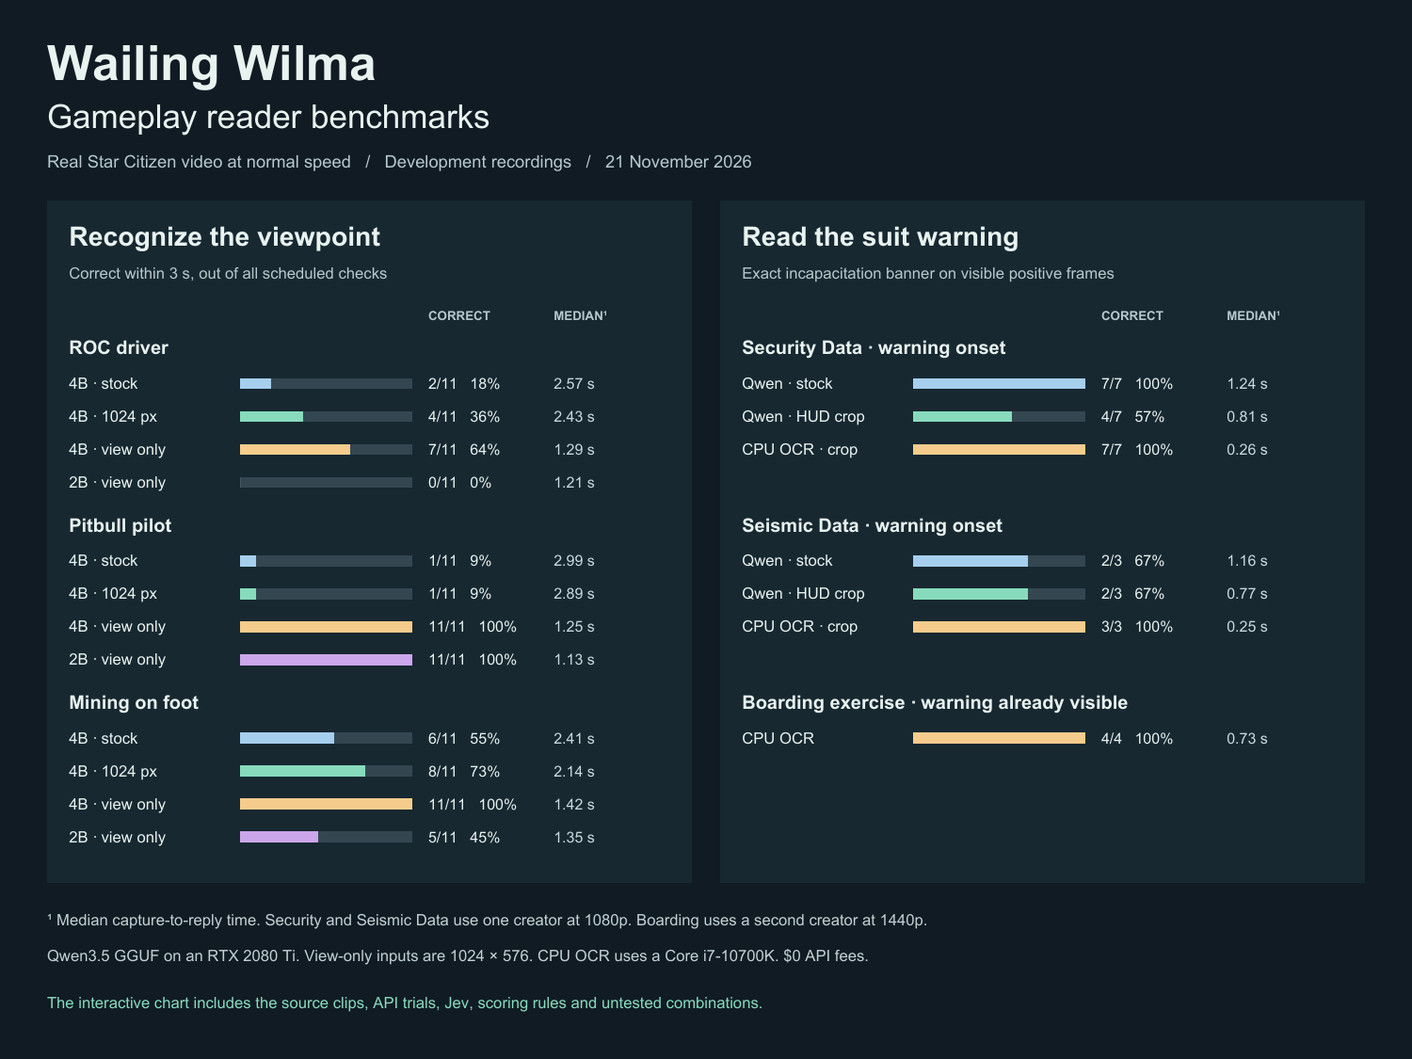
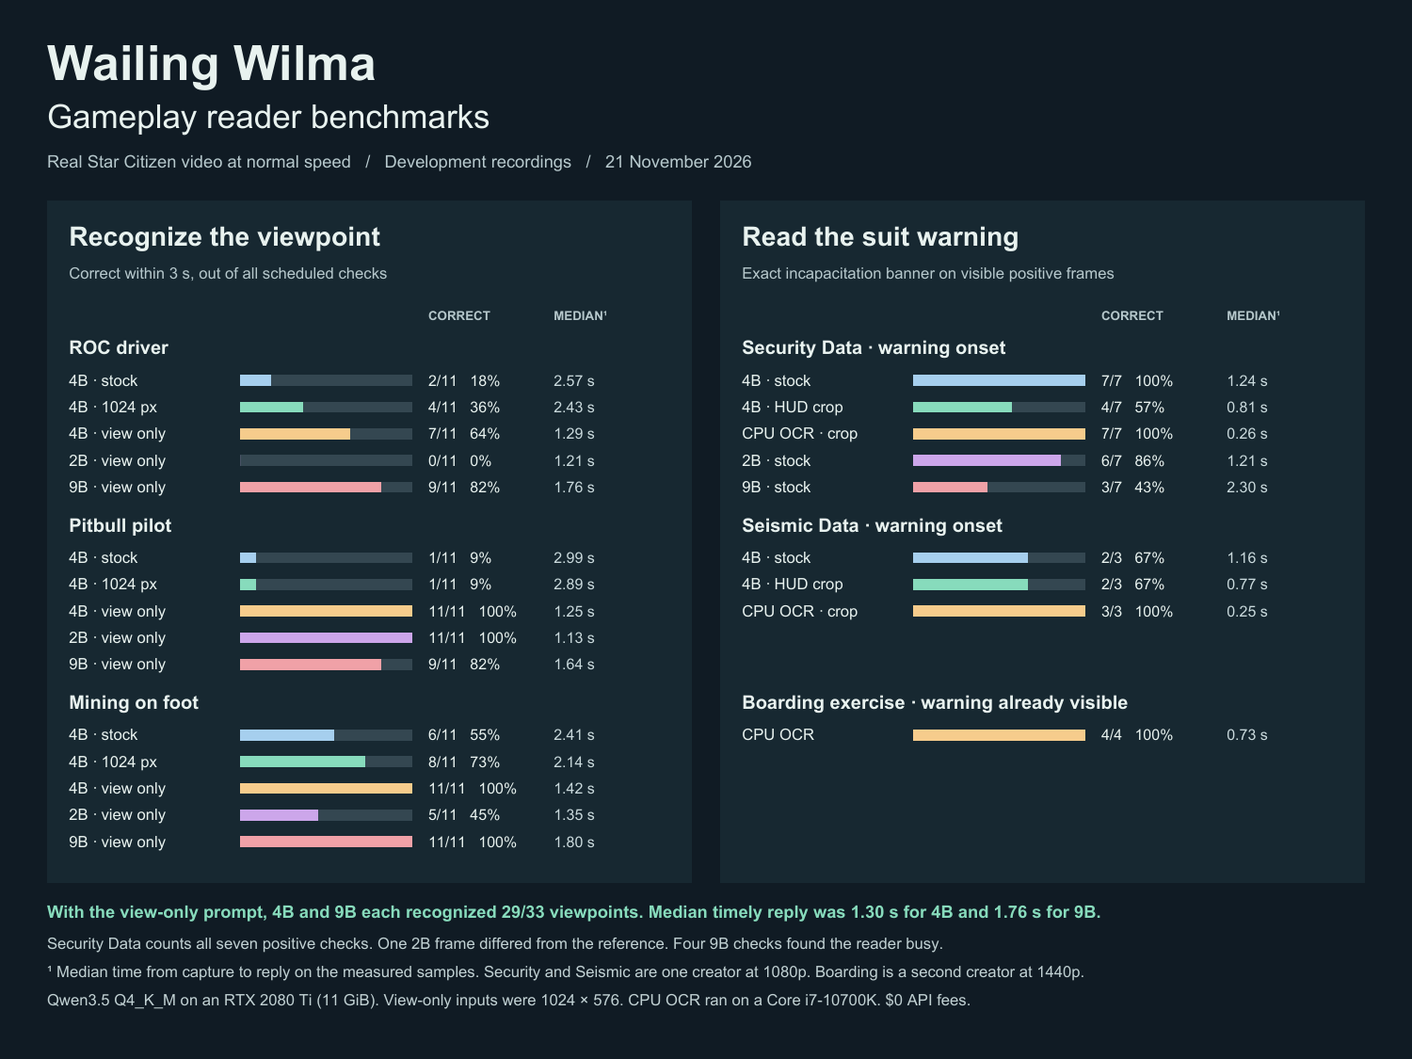
Compare hosted vision readers on moving gameplay and local Qwen sizes

diff --git a/tools/reader_chart.html b/tools/reader_chart.html
@@ -6,7 +6,7 @@
 </style></head>
 <body><main><header><h1>Wailing Wilma gameplay benchmarks</h1><p>Star Citizen video replay · Reader accuracy, response time and API cost</p></header>
 <section aria-labelledby="comparison"><h2 id="comparison">Matched comparisons</h2>
-<div class="options"><button id="viewpoint" aria-pressed="true">Recognize the viewpoint</button><button id="banner" aria-pressed="false">Read a suit warning</button><button id="cooler" aria-pressed="false">Read a cooler failure</button></div>
+<div class="options"><button id="hosted" aria-pressed="true">Compare hosted readers</button><button id="viewpoint" aria-pressed="false">Recognize the viewpoint</button><button id="banner" aria-pressed="false">Read a suit warning</button><button id="cooler" aria-pressed="false">Read a cooler failure</button><button id="local" aria-pressed="false">Compare local model sizes</button></div>
 <div class="chart"><p id="definition"></p><div class="barrow legend-head"><span>Reader</span><span></span><span>Correct</span><span class="time">Median¹</span></div><div id="bars"></div>
 <p id="caption" class="caption"></p></div></section>
 <section aria-labelledby="all"><h2 id="all">All trials and coverage</h2><p class="hint">Open a result for its scoring rule, hardware, costs and evidence.</p>
@@ -26,6 +26,20 @@ function node(tag, text, cls) {
   return el;
 }
 const panels = {
+  hosted: {
+    text:"How often did a hosted reader name the visible component failure within three seconds?",
+    names:["Haiku default","Gemma 4 26B","Haiku focused","Haiku literal text"],
+    groups:[["Hull B · cooler","nov21-fast-hull-screen-haiku-direct-default-512","nov21-fast-hull-screen-google-gemma-4-26b-a4b-it","nov21-fast-hull-literal-haiku-focused-json-stock-jpeg","nov21-fast-hull-literal-haiku-literal-text-stock-jpeg"],["Hermes · power plant","nov21-fast-hermes-transfer-haiku-direct-default-512","nov21-fast-hermes-transfer-google-gemma-4-26b-a4b-it","nov21-fast-hermes-literal-haiku-focused-json-stock-jpeg","nov21-fast-hermes-literal-haiku-literal-text-stock-jpeg"]],
+    den:"scored_count",
+    caption:"¹ Median time to a correct reading among hits within five seconds. A dash means there were no such hits. The two clips contain one fault each. On the Hermes, literal-text Haiku took 4.835–5.086 s from visible onset to an eligible warning. Playback latency was unmeasured. Search below for all models, prompt variations and API costs."
+  },
+  local: {
+    text:"How many scheduled checks did each unchanged Qwen3.5 model get right within three seconds?",
+    names:["2B","4B","9B"],
+    groups:[["ROC driver","nov21-qwen2b-viewonly-roc","nov21-viewonly-roc","nov21-qwen9b-viewonly-roc"],["Pitbull pilot","nov21-qwen2b-viewonly-ship","nov21-viewonly-ship","nov21-qwen9b-viewonly-ship"],["Mining on foot","nov21-qwen2b-viewonly-fps","nov21-viewonly-fps","nov21-qwen9b-viewonly-fps"],["Security Data · visible suit warning","nov21-qwen2b-onyx-stock","nov21-pair-onyx-stock","nov21-qwen9b-onyx-stock"]],
+    den:"scored_count", scheduled:{"Security Data · visible suit warning":7},
+    caption:"¹ Median time to a timely reply (see individual rows for timing scope). The 4B and 9B models each recognized 29/33 viewpoints on the same 1024 × 576 inputs. The 2B model recognized 16/33. The separate full-frame suit test counts all seven scheduled positives. One 2B frame differed from the reference. All seven 9B frames matched, but four checks found the reader busy. RTX 2080 Ti, 11 GiB. $0 API fees. Speech was unmeasured."
+  },
   viewpoint: {
     text:"How often did the local models identify the player’s viewpoint within three seconds?",
     names:["4B general, stock","4B general, 1024 px","4B view only","2B view only"],
@@ -58,9 +72,9 @@ function draw(key) {
     ids.forEach((key,i)=>{
       const item=byId.get(key); if(!item) return;
       const box=node("div",undefined,"barrow"), track=node("div",undefined,"bar");
-      const n=Number(item.correct_count), d=Number(item[p.den]), pc=Math.round(n/d*100);
+      const n=Number(item.correct_count), d=Number(p.scheduled?.[title] ?? item[p.den]), pc=Math.round(n/d*100);
       const fill=node("div",undefined,"fill"); fill.style.width=pc+"%"; fill.style.background=colors[i]; track.append(fill);
-      box.append(node("span",p.names[i]), track,node("span",n+"/"+d+" · "+pc+"%","value"), node("span",(Number(item.latency_ms)/1000).toFixed(2)+" s","time"));
+      box.append(node("span",p.names[i]), track,node("span",n+"/"+d+" · "+pc+"%","value"), node("span",item.latency_ms ? (Number(item.latency_ms)/1000).toFixed(2)+" s" : "—","time"));
       group.append(box);
     });
     groups.push(group);
@@ -68,7 +82,7 @@ function draw(key) {
   id("bars").replaceChildren(...groups);
 }
 const types={experiment:"Experiment",paced_replay:"Paced replay",candidate:"Model candidate",coverage_arm:"Planned comparison",screen_family:"Display coverage"};
-const fields=[["provider","Provider or hardware"],["arm","Configuration"],["status","Status"],["input_id","Input"],["screen_family","Display"],["accuracy_percent","Accuracy (%)"],["correct_count","Correct"],["scored_count","Scored"],["accuracy_metric","Scoring rule"],["accuracy_status","Accuracy evidence"],["latency_ms","Latency (ms)"],["latency_scope","Latency definition"],["cost_usd","Reported cost ($)"],["cost_basis","Cost basis"],["estimated_hourly_usd","Est. cost per hour ($)"],["requests_per_hour","Requests per hour"],["n","Sample count"],["offered_frames","Scheduled frames"],["timely_frames","Timely frames"],["vision_requests","Vision requests"],["declared_source_groups","Source groups"],["independent_groups","Independent groups"],["findings","Findings"],["reference_quality","Ground truth"],["permutation","Combination"],["pilot_status","Pilot"],["pilot_experiment_ids","Related trials"],["holdout_status","Held-out test"],["coverage_status","Coverage"],["required","Required"],["coverage_summary","Coverage detail"],["benchmark_evidence","Evidence"],["source_url","Source"],["id","Record ID"]];
+const fields=[["provider","Provider or hardware"],["arm","Configuration"],["status","Status"],["input_id","Input"],["screen_family","Display"],["accuracy_percent","Accuracy (%)"],["correct_count","Correct"],["scored_count","Scored"],["accuracy_metric","Scoring rule"],["accuracy_status","Accuracy evidence"],["latency_ms","Latency (ms)"],["latency_scope","Latency definition"],["cost_usd","API cost ($; see basis)"],["cost_basis","Cost basis"],["estimated_hourly_usd","Est. cost per hour ($)"],["requests_per_hour","Requests per hour"],["n","Sample count"],["offered_frames","Scheduled frames"],["timely_frames","Timely frames"],["vision_requests","Vision requests"],["declared_source_groups","Source groups"],["independent_groups","Independent groups"],["findings","Findings"],["reference_quality","Ground truth"],["permutation","Combination"],["pilot_status","Pilot"],["pilot_experiment_ids","Related trials"],["holdout_status","Held-out test"],["coverage_status","Coverage"],["required","Required"],["coverage_summary","Coverage detail"],["benchmark_evidence","Evidence"],["source_url","Source"],["id","Record ID"]];
 const searchable=rows.map(r=>Object.values(r).join(" ").toLowerCase());
 function result(row) {
   const item=node("details",undefined,"item"), summary=node("summary");
@@ -99,5 +113,5 @@ function filter(){
 }
 for(const key of Object.keys(panels)) id(key).addEventListener("click",()=>draw(key));
 id("search").addEventListener("input",filter); id("type").addEventListener("change",filter); id("more").addEventListener("click",add);
-draw("viewpoint"); filter();
+draw("hosted"); filter();
 </script></body></html>

diff --git a/docs/hosted-readers.md b/docs/hosted-readers.md
@@ -1,0 +1,102 @@
+# Hosted readers on two ship failures
+
+Gemma 4 26B A4B IT led the 42-model catalog test on the Hull B. It identified the cooler failure within three seconds on **18/38** positive frames. A direct Claude Haiku 5.5 configuration also scored 18/38. A repeat of that configuration scored **19/38**. The earliest eligible warning came 3.350 s after the first reviewed frame, when the cooler fault was already visible. [Hull B recording at 1:50](https://www.youtube.com/watch?v=pOfxidINFvk&t=110s)
+
+On the Hermes, the power plant warning first became legible between 9:25.500 and 9:25.750. Of the six finalists in the first test, only Gemini 3.5 Flash-Lite produced an eligible warning, **11.825–12.076 s** after visible onset. In a follow-up, direct Haiku reading literal terminal text from the stock JPEG improved that to **4.835–5.086 s**. The range crosses five seconds. Both warnings still had the correct visible target when eligible. [Hermes recording at 9:25](https://www.youtube.com/watch?v=6JgvriGCOr4&t=565s)
+
+## Reading the tables
+
+One original 1440p frame was scheduled each second at normal playback speed. **By 3 s** and **By 5 s** count correct named-failure readings against every scheduled positive frame, including busy, expired, missing and unusable checks. **Median hit** is the median capture-to-reply time for correct detections within five seconds. A dash means there was no qualifying result.
+
+**First offer** replays the released Wilma 0.1.80 policy on those recorded replies. It requires two distinct confirming captures, a consistent view and readings less than three seconds old. The figures assume an immediately available speech queue. Actual speech submission and playback were unmeasured. A live three-second request deadline could allow different subsequent captures.
+
+**Quiet replies** counts parseable replies within five seconds on three controls for the Hull B and seven on the Hermes. Four Hermes controls precede the failure and three follow the terminal leaving view. Lack of a reply gives no evidence about false alarms.
+
+**USD** sums provider-reported OpenRouter charges or, for direct Haiku, estimates from returned token usage at the published rates. **Priced / sent** counts calls with cost evidence out of all started calls. When some calls lack prices, their cost is unknown. Zero applies only to the priced calls in that row. [Download the experiment CSV](reader-trials.csv)
+
+## Hermes transfer
+
+All 20 frames matched the reviewed pixels. Thirteen showed the power plant failure. The first six rows repeat the finalists on this ship. The last four vary the Haiku prompt, output schema or JPEG detail after inspection of the first results. No tested configuration offered a wrong or duplicate warning here.
+
+| Model or configuration | By 3 s | By 5 s | Median hit | First offer | USD | Priced / sent | Quiet replies |
+| --- | ---: | ---: | ---: | ---: | ---: | ---: | ---: |
+| Haiku direct: focused, thinking off, 512 | 3/13 (23%) | 3/13 (23%) | 1.637 s | — | $0.00212 | 9/9 | 4/7 |
+| Haiku direct: default, 512 | 0/13 (0%) | 0/13 (0%) | — | — | $0.00394 | 6/6 | 1/7 |
+| google/gemma-4-26b-a4b-it | 0/13 (0%) | 0/13 (0%) | — | — | $0.00097 | 6/7 | 2/7 |
+| google/gemini-2.5-flash-lite | 1/13 (8%) | 1/13 (8%) | 2.248 s | — | $0.00201 | 8/8 | 3/7 |
+| amazon/nova-2-lite-v1 | 0/13 (0%) | 1/13 (8%) | 3.662 s | — | $0.00489 | 6/6 | 2/7 |
+| google/gemini-3.5-flash-lite | 2/13 (15%) | 2/13 (15%) | 2.635 s | 11.825–12.076 s | $0.00693 | 7/7 | 2/7 |
+| Haiku focused JSON, stock JPEG | 3/13 (23%) | 3/13 (23%) | 1.719 s | — | $0.00233 | 9/9 | 3/7 |
+| Haiku literal text, stock JPEG | 5/13 (38%) | 5/13 (38%) | 1.621 s | 4.835–5.086 s | $0.00218 | 10/10 | 4/7 |
+| Haiku schema + literal text, stock JPEG | 2/13 (15%) | 2/13 (15%) | 2.544 s | — | $0.00175 | 7/7 | 3/7 |
+| Haiku schema + literal text, high detail | 5/13 (38%) | 5/13 (38%) | 2.089 s | 7.791–8.042 s | $0.00465 | 8/8 | 3/7 |
+
+The initial focused Haiku read the right target at 9:27, 9:32 and 9:37. Its intervening replies at 9:29 and 9:34 included prose and concluded that the reading was unknown. Each interrupted the two-frame confirmation. The stock-JPEG literal follow-up preserved two consecutive confirmations.
+
+## Hull B catalog models
+
+Each model received the same general prompt, stock JPEG and five-second request deadline. Thirty-eight frames showed the cooler fault and the terminal was out of view on the final three. Of 42 catalog models, seven eventually produced an eligible cooler warning and one, Gemma, did so within five seconds. Only 12 of the 126 scheduled control checks returned a fresh parseable reply within Wilma’s three-second age limit.
+
+| Model or configuration | By 3 s | By 5 s | Median hit | First offer | USD | Priced / sent | Quiet replies |
+| --- | ---: | ---: | ---: | ---: | ---: | ---: | ---: |
+| google/gemma-4-26b-a4b-it | 18/38 (47%) | 18/38 (47%) | 1.760 s | 4.532 s | $0.00315 | 19/19 | 1/3 |
+| google/gemini-2.5-flash-lite | 14/38 (37%) | 14/38 (37%) | 1.774 s | 32.335 s | $0.00382 | 19/19 | 1/3 |
+| amazon/nova-2-lite-v1 | 11/38 (29%) | 11/38 (29%) | 2.318 s | 5.954 s | $0.01062 | 16/16 | 1/3 |
+| google/gemini-3.1-flash-lite | 11/38 (29%) | 11/38 (29%) | 2.365 s | 27.364 s | $0.00967 | 13/15 | 1/3 |
+| google/gemini-3.5-flash-lite | 10/38 (26%) | 11/38 (29%) | 2.268 s | 7.879 s | $0.01617 | 17/17 | 2/3 |
+| openai/gpt-5.4-nano | 10/38 (26%) | 10/38 (26%) | 1.953 s | 6.954 s | $0.01270 | 19/19 | 1/3 |
+| mistralai/mistral-small-2603 | 9/38 (24%) | 10/38 (26%) | 2.598 s | — | $0.00761 | 13/14 | 1/3 |
+| meta-llama/llama-4-scout | 4/38 (11%) | 4/38 (11%) | 1.817 s | — | $0.00896 | 20/20 | 2/3 |
+| openai/gpt-6.2-sol | 3/38 (8%) | 9/38 (24%) | 3.619 s | 19.422 s | $0.07658 | 10/11 | 1/3 |
+| xiaomi/mimo-v2.6-flash | 2/38 (5%) | 3/38 (8%) | 2.842 s | — | $0.00395 | 7/11 | 0/3 |
+| anthropic/claude-haiku-4.5 | 2/38 (5%) | 2/38 (5%) | 2.822 s | — | $0.04557 | 12/12 | 1/3 |
+| mistralai/ministral-3b-2512 | 1/38 (3%) | 1/38 (3%) | 2.624 s | — | $0.00442 | 12/12 | 0/3 |
+| openai/gpt-6.1-terra | 0/38 (0%) | 8/38 (21%) | 3.781 s | — | $0.03825 | 9/10 | 1/3 |
+| google/gemini-4-argon | 0/38 (0%) | 3/38 (8%) | 4.128 s | — | $0.01792 | 3/9 | 0/3 |
+| openai/gpt-5.6-luna | 0/38 (0%) | 3/38 (8%) | 4.251 s | — | $0.00400 | 4/9 | 1/3 |
+| z-ai/glm-5.3-flash | 0/38 (0%) | 2/38 (5%) | 3.235 s | — | $0.00477 | 8/10 | 0/3 |
+| mistralai/ministral-8b-2512 | 0/38 (0%) | 2/38 (5%) | 4.525 s | — | $0.00111 | 2/9 | 0/3 |
+| anthropic/claude-haiku-5.5 | 0/38 (0%) | 0/38 (0%) | — | — | $0.00579 | 9/9 | 1/3 |
+| bytedance-seed/seed-2-1-turbo | 0/38 (0%) | 0/38 (0%) | — | — | Unknown | 0/9 | 0/3 |
+| bytedance-seed/seed-2.0-mini | 0/38 (0%) | 0/38 (0%) | — | — | Unknown | 0/9 | 0/3 |
+| deepseek/deepseek-v4.1-flash-1017 | 0/38 (0%) | 0/38 (0%) | — | — | $0.00493 | 9/10 | 0/3 |
+| google/gemini-3.8-flash | 0/38 (0%) | 0/38 (0%) | — | — | $0.01563 | 4/9 | 1/3 |
+| google/gemini-4-carbon | 0/38 (0%) | 0/38 (0%) | — | — | Unknown | 0/9 | 0/3 |
+| google/gemini-4-hydrogen | 0/38 (0%) | 0/38 (0%) | — | — | Unknown | 0/9 | 0/3 |
+| google/gemini-4-neon | 0/38 (0%) | 0/38 (0%) | — | — | Unknown | 0/9 | 0/3 |
+| google/gemini-omni-1.2-flash | 0/38 (0%) | 0/38 (0%) | — | — | Unknown | 0/9 | 0/3 |
+| inclusionai/ling-3.0-flash-vl | 0/38 (0%) | 0/38 (0%) | — | — | $0.00091 | 5/9 | 0/3 |
+| inclusionai/ling-3.2-flash:free | 0/38 (0%) | 0/38 (0%) | — | — | $0 | 1/16 | 0/3 |
+| meta/muse-ember | 0/38 (0%) | 0/38 (0%) | — | — | $0.00576 | 14/15 | 0/3 |
+| minimax/minimax-m3.1-flash | 0/38 (0%) | 0/38 (0%) | — | — | $0.00753 | 11/11 | 0/3 |
+| nex-agi/nex-n2.5-mini | 0/38 (0%) | 0/38 (0%) | — | — | $0.00004 | 1/9 | 0/3 |
+| nvidia/nemotron-3-nano-omni-30b-a3b-reasoning:free | 0/38 (0%) | 0/38 (0%) | — | — | $0 | 3/9 | 0/3 |
+| openai/gpt-4.1-nano | 0/38 (0%) | 0/38 (0%) | — | — | $0.00428 | 12/12 | 0/3 |
+| openai/gpt-6-luna | 0/38 (0%) | 0/38 (0%) | — | — | $0.00040 | 1/9 | 1/3 |
+| qwen/qwen3.8-flash | 0/38 (0%) | 0/38 (0%) | — | — | Unknown | 0/9 | 0/3 |
+| qwen/qwen3.8-omni-flash | 0/38 (0%) | 0/38 (0%) | — | — | Unknown | 0/9 | 0/3 |
+| stepfun/step-3.7-flash | 0/38 (0%) | 0/38 (0%) | — | — | Unknown | 0/9 | 0/3 |
+| tencent/hy4-flash | 0/38 (0%) | 0/38 (0%) | — | — | Unknown | 0/9 | 0/3 |
+| thinkingmachines/inkling-2-mini | 0/38 (0%) | 0/38 (0%) | — | — | $0.00137 | 4/9 | 0/3 |
+| thinkingmachines/inkling-2-small | 0/38 (0%) | 0/38 (0%) | — | — | $0.01615 | 14/14 | 0/3 |
+| x-ai/grok-4.7 | 0/38 (0%) | 0/38 (0%) | — | — | Unknown | 0/9 | 0/3 |
+| z-ai/glm-5.3-flashx | 0/38 (0%) | 0/38 (0%) | — | — | $0.00177 | 1/9 | 0/3 |
+
+GPT-5.4 Nano offered the same cooler failure twice, at 6.954 and 19.594 s, after changing its reported view from an engineering terminal to a cockpit. Gemini 3.1 Flash-Lite also offered it twice, at 27.364 and 32.008 s, after changing the reported terminal page and subject. Neither repetition corresponded to a second reviewed failure.
+
+## Hull B direct Haiku settings
+
+These ten runs use Claude Haiku 5.5 through Anthropic. The first six change settings for one model. The last four repeat focused JSON or use literal terminal transcription, a response schema or a high-detail image. These are development runs on the same fault.
+
+| Model or configuration | By 3 s | By 5 s | Median hit | First offer | USD | Priced / sent | Quiet replies |
+| --- | ---: | ---: | ---: | ---: | ---: | ---: | ---: |
+| Haiku direct: default, 512 | 0/38 (0%) | 1/38 (3%) | 3.635 s | — | $0.00713 | 11/11 | 1/3 |
+| Haiku direct: default, 1536 | 0/38 (0%) | 6/38 (16%) | 4.694 s | — | $0.00531 | 7/9 | 1/3 |
+| Haiku direct: low effort, 512 | 1/38 (3%) | 3/38 (8%) | 3.024 s | — | $0.00743 | 12/12 | 2/3 |
+| Haiku direct: thinking off, 512 | 17/38 (45%) | 17/38 (45%) | 1.788 s | 9.835 s | $0.00919 | 20/20 | 2/3 |
+| Haiku direct: focused, default, 512 | 8/38 (21%) | 10/38 (26%) | 2.708 s | 17.524 s | $0.00493 | 13/13 | 1/3 |
+| Haiku direct: focused, thinking off, 512 | 18/38 (47%) | 18/38 (47%) | 1.683 s | 4.470 s | $0.00466 | 20/20 | 2/3 |
+| Haiku focused JSON, stock JPEG | 19/38 (50%) | 19/38 (50%) | 1.484 s | 3.350 s | $0.00489 | 21/21 | 2/3 |
+| Haiku literal text, stock JPEG | 17/38 (45%) | 17/38 (45%) | 1.484 s | 3.397 s | $0.00450 | 21/21 | 2/3 |
+| Haiku schema + literal text, stock JPEG | 5/38 (13%) | 6/38 (16%) | 2.369 s | 28.935 s | $0.00390 | 16/16 | 1/3 |
+| Haiku schema + literal text, high detail | 0/38 (0%) | 0/38 (0%) | — | — | $0.00907 | 16/16 | 1/3 |

diff --git a/docs/gameplay-tests.md b/docs/gameplay-tests.md
@@ -2,9 +2,13 @@
 
 These runs used real gameplay at normal speed. The tests used 2560 × 1440 unless a result specifies another resolution. Reviewers checked the visible HUD before comparing model replies. The deadline was three seconds per frame unless stated otherwise.
 
-[Download the interactive benchmark chart](https://github.com/Fowlplaychiken/Wailing-Wilma/releases/download/benchmarks-2026-11-21.4/wilma-reader-results.html) and open it in your browser. It works offline. Search by model, task or reader combination to see the scoring rule, timing, recorded cost and which comparisons still need a run.
+[Download the interactive benchmark chart](https://github.com/Fowlplaychiken/Wailing-Wilma/releases/download/benchmarks-2026-11-21.5/wilma-reader-results.html) and open it in your browser. It works offline. Search by model, task or reader combination to see the scoring rule, timing, recorded cost and which comparisons still need a run.
 
 ![Paired tests on an RTX 2080 Ti and Core i7-10700K. A smaller image helped the local model recognize some viewpoints. CPU OCR read a specific suit banner faster in both tested recordings.](https://raw.githubusercontent.com/Fowlplaychiken/Wailing-Wilma/NewRepo/docs/reader-overview.png)
+
+[Compare 42 hosted vision models and the Haiku prompt trials](hosted-readers.md). The tests measure both correct readings and how long Wilma took to confirm a warning on two ships.
+
+![Hosted readers on two ship failures, showing recognition, response time and first eligible warning.](hosted-readers.png)
 
 The [full comparison data](https://github.com/Fowlplaychiken/Wailing-Wilma/blob/NewRepo/docs/reader-trials.csv) includes local and hosted models, OCR and Jev trials, hardware, available costs, denominators and cases still awaiting a run. Compare rows with the same task and source. A planned run has no score.
 
@@ -54,14 +58,19 @@ The four ROC errors were three cockpit guesses and one exterior-view guess. In t
 
 ## Comparing unchanged local models
 
-On an RTX 2080 Ti, both Qwen models received the same viewpoint-only prompt, the same 1024 × 576 encoding and the same 33 reviewed frames. Both answered all 33 within three seconds.
+On an RTX 2080 Ti, Qwen3.5-4B and 9B each identified **29 of 33 viewpoints** within three seconds. The 4B model returned a timely reply on every frame and had a lower median reply time. The 9B model recognized two more ROC views but missed two Pitbull checks while a request was running. All three models used their original Q4_K_M weights, the same viewpoint-only prompt and the same 1024 × 576 encoding. Every native frame matched across the three runs.
 
-| Unmodified model | ROC driver | Pitbull pilot | On foot | Timely correct | Median reply |
-| --- | ---: | ---: | ---: | ---: | ---: |
-| Qwen3.5-4B Q4_K_M | 7/11 | 11/11 | 11/11 | **29/33 (88%)** | 1.300 s |
-| Qwen3.5-2B Q4_K_M | 0/11 | 11/11 | 5/11 | **16/33 (48%)** | 1.214 s |
+| Model | ROC driver | Pitbull pilot | On foot | Correct within 3 s | Timely replies | Median timely reply |
+| --- | ---: | ---: | ---: | ---: | ---: | ---: |
+| Qwen3.5-2B | 0/11 | 11/11 | 5/11 | 16/33 (48%) | 33/33 | 1.214 s |
+| Qwen3.5-4B | 7/11 | 11/11 | 11/11 | **29/33 (88%)** | 33/33 | 1.300 s |
+| Qwen3.5-9B | 9/11 | 9/11 | 11/11 | **29/33 (88%)** | 31/33 | 1.764 s |
 
-The smaller model classified every rover frame as a ship cockpit. On the separate Security Data suit-warning test with the same full-frame warning prompt, it read all six matching positives. The seventh positive frame differed from the annotated image. Three of four quiet checks returned a valid quiet response and one reply was malformed. The 4B model read all seven positives and all four quiet controls on its original pass.
+The 2B model classified every rover frame as a ship cockpit. The 9B model made that mistake twice. On the Pitbull, one 9B request expired and the next scheduled check found the reader busy. All three tests used a two-second cadence and incurred $0 in API fees.
+
+**Reading the suit warning was a separate task.** On the 1080p Security Data recording, all three models received the same full-frame personal-warning prompt. The 4B model read all seven scheduled positive frames and returned a valid quiet reply on all four preceding controls. The 2B model read six of seven positives. The remaining frame differed from the reference. It returned three valid quiet replies and one malformed reply.
+
+The 9B model read **three of seven** positives within three seconds. All seven frames matched the reviewed pixels, but the reader was busy on four, including the first positive. Its three detections had a median reply time of 2.297 s. Of four scheduled quiet checks, two returned valid quiet replies, one found the reader busy and one frame differed from the reference. Speech delivery was unmeasured in these model comparisons. [Security Data at the first visible banner](https://www.youtube.com/watch?v=q2YFjZ6XW4s&t=1475s)
 
 ## Engineering terminal
 

diff --git a/README.md b/README.md
@@ -4,9 +4,9 @@
 
 Wailing Wilma gives you spoken Star Citizen warnings through Wingman AI. It can watch your cockpit, an engineering terminal, a ground vehicle you’re driving or your personal HUD. A second PC can handle the image processing.
 
-**[Download the Windows skill ZIP](https://github.com/Fowlplaychiken/Wailing-Wilma/releases/download/v0.1.80/wailing_wilma-0.1.80.zip)** · [Gameplay test results](docs/gameplay-tests.md) · [Offline benchmark chart](https://github.com/Fowlplaychiken/Wailing-Wilma/releases/download/benchmarks-2026-11-21.4/wilma-reader-results.html) · [All releases](https://github.com/Fowlplaychiken/Wailing-Wilma/releases)
+**[Download the Windows skill ZIP](https://github.com/Fowlplaychiken/Wailing-Wilma/releases/download/v0.1.80/wailing_wilma-0.1.80.zip)** · [Gameplay test results](docs/gameplay-tests.md) · [Offline benchmark chart](https://github.com/Fowlplaychiken/Wailing-Wilma/releases/download/benchmarks-2026-11-21.5/wilma-reader-results.html) · [All releases](https://github.com/Fowlplaychiken/Wailing-Wilma/releases)
 
-This is a **preview**. Wilma recognized a cooler failure in Hull B footage and missed a power-plant failure on another ship. Keep the game’s instruments and alarms available.
+This is a **preview**. In gameplay tests, local OCR read an incapacitation banner quickly. On ship terminals, even the fastest hosted readers missed visible faults or warned late. [See the comparison on two ships](docs/hosted-readers.md).
 
 ## Start using Wilma
 
